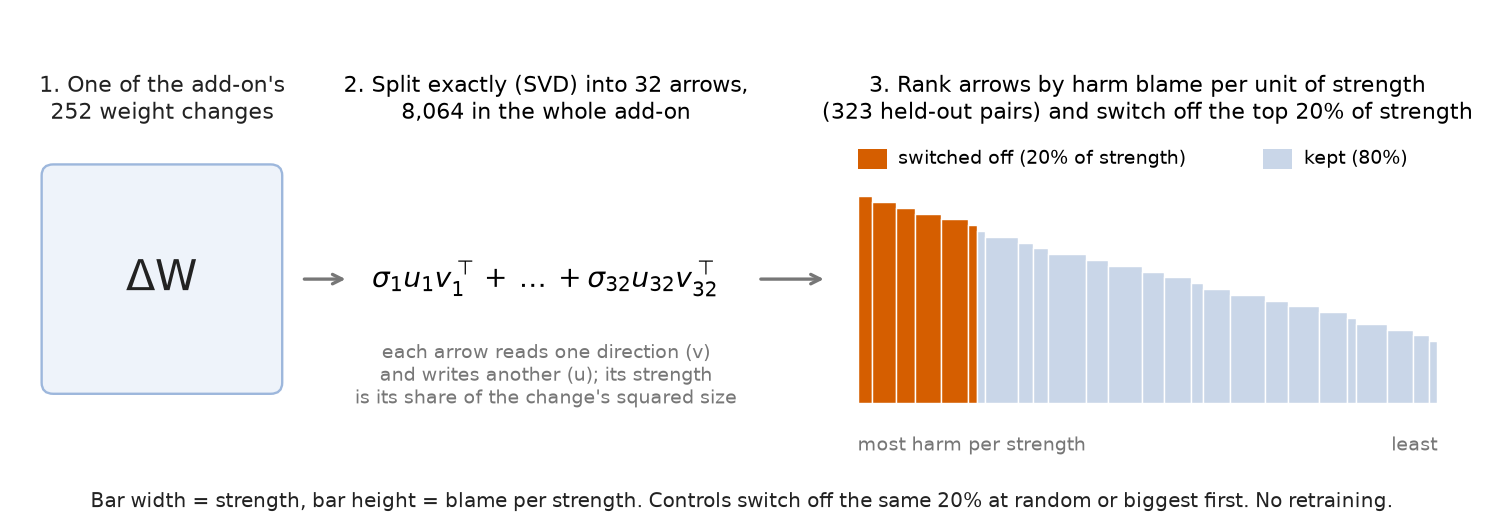
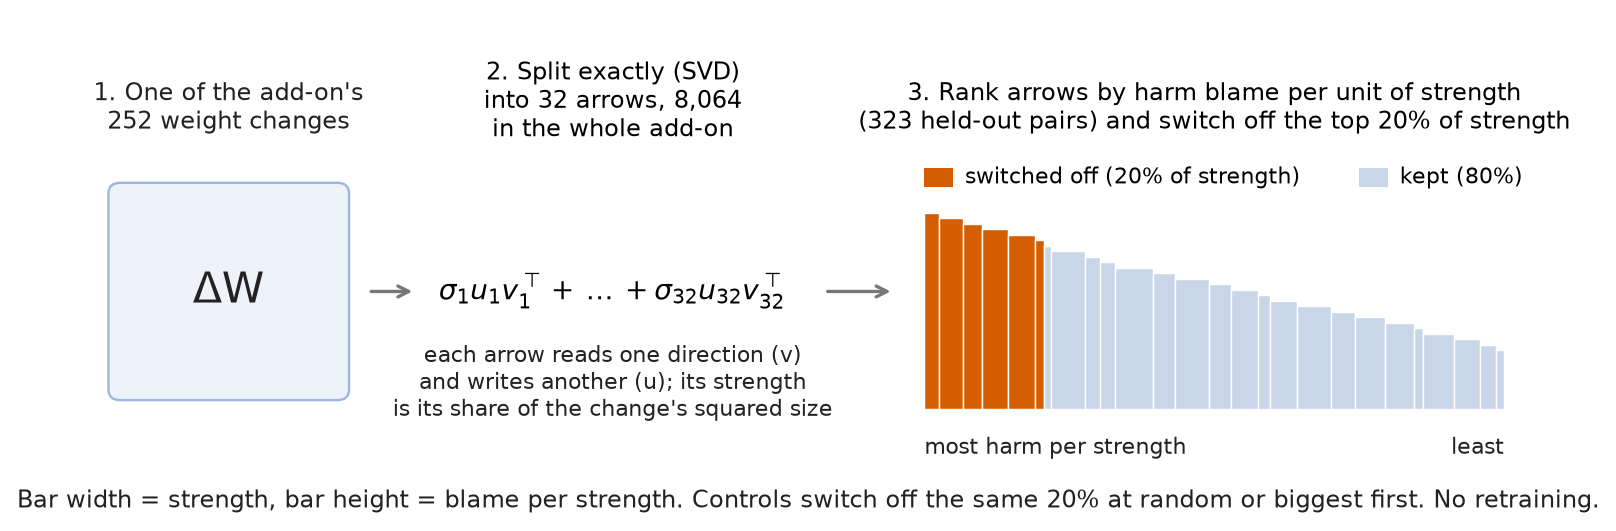
Figures: larger text, no tiny footnotes

diff --git a/figures/make_figures.py b/figures/make_figures.py
@@ -7,7 +7,7 @@ from matplotlib.patches import FancyBboxPatch, Rectangle
 OUT = sys.argv[1]
 os.makedirs(OUT, exist_ok=True)
 C = dict(t="#0072B2", r="#E69F00", b="#CC79A7", u="#D55E00", o="#6b6b6b", ink="#222222", mute="#777777", grid="#e6e6e6", ok="#009E73")
-plt.rcParams.update({"font.family": "DejaVu Sans", "font.size": 10, "axes.edgecolor": "#bbbbbb", "axes.labelcolor": C["ink"],
+plt.rcParams.update({"font.family": "DejaVu Sans", "font.size": 11.5, "axes.edgecolor": "#bbbbbb", "axes.labelcolor": C["ink"],
                      "xtick.color": C["ink"], "ytick.color": C["ink"], "figure.facecolor": "white", "axes.facecolor": "white",
                      "savefig.facecolor": "white", "axes.spines.top": False, "axes.spines.right": False})
 
@@ -17,23 +17,23 @@ def save(fig, name):
 
 # ---------- 1. The cut: arrows ----------
 fig, ax = plt.subplots(figsize=(11, 3.8))
-ax.set_xlim(0, 100); ax.set_ylim(0, 36); ax.axis("off")
+ax.set_xlim(0, 100); ax.set_ylim(0, 38); ax.axis("off")
 def box(x, y, w, h, fc, ec=None, lw=1):
     ax.add_patch(FancyBboxPatch((x, y), w, h, boxstyle="round,pad=0.3,rounding_size=0.8", fc=fc, ec=ec or fc, lw=lw))
 # step 1: one matrix change
 box(2, 9, 16, 16, "#eef3fa", "#9db7dc")
 ax.text(10, 17, "ΔW", ha="center", va="center", fontsize=18, color=C["ink"])
-ax.text(10, 30, "1. One of the add-on's\n252 weight changes", ha="center", va="center", fontsize=9.5, color=C["ink"])
+ax.text(10, 31, "1. One of the add-on's\n252 weight changes", ha="center", va="center", fontsize=10, color=C["ink"])
 ax.annotate("", xy=(23, 17), xytext=(19.5, 17), arrowprops=dict(arrowstyle="->", color=C["mute"], lw=1.4))
 # step 2: split into arrows
-ax.text(36.5, 30, "2. Split exactly (SVD) into 32 arrows,\n8,064 in the whole add-on", ha="center", va="center", fontsize=9.5)
+ax.text(36.5, 31.5, "2. Split exactly (SVD)\ninto 32 arrows, 8,064\nin the whole add-on", ha="center", va="center", fontsize=10)
 ax.text(36.5, 17, r"$\sigma_1 u_1 v_1^\top + \dots + \sigma_{32} u_{32} v_{32}^\top$", ha="center", va="center", fontsize=12)
 ax.text(36.5, 10, "each arrow reads one direction (v)\nand writes another (u); its strength\nis its share of the change's squared size",
-        ha="center", va="center", fontsize=8, color=C["mute"])
+        ha="center", va="center", fontsize=9.5, color=C["ink"])
 ax.annotate("", xy=(56, 17), xytext=(51, 17), arrowprops=dict(arrowstyle="->", color=C["mute"], lw=1.4))
 # step 3: rank by blame per strength, cut until 20%
-ax.text(78, 30, "3. Rank arrows by harm blame per unit of strength\n(323 held-out pairs) and switch off the top 20% of strength",
-        ha="center", va="center", fontsize=9.5)
+ax.text(78, 31, "3. Rank arrows by harm blame per unit of strength\n(323 held-out pairs) and switch off the top 20% of strength",
+        ha="center", va="center", fontsize=10)
 import random
 random.seed(3)
 ws = [random.uniform(0.4, 2.2) for _ in range(26)]
@@ -44,12 +44,12 @@ for i, w in enumerate(ws):
     h = 15 - i * 0.42
     ax.add_patch(Rectangle((x, 8), w * k, h, fc=C["u"] if cut else "#c9d6e8", ec="white", lw=0.6))
     x += w * k
-ax.text(58, 4.6, "most harm per strength", fontsize=8, color=C["mute"], ha="left")
-ax.text(98, 4.6, "least", fontsize=8, color=C["mute"], ha="right")
-ax.add_patch(Rectangle((58, 25), 2, 1.4, fc=C["u"])); ax.text(60.8, 25.7, "switched off (20% of strength)", fontsize=8, va="center")
-ax.add_patch(Rectangle((86, 25), 2, 1.4, fc="#c9d6e8")); ax.text(88.8, 25.7, "kept (80%)", fontsize=8, va="center")
+ax.text(58, 4.6, "most harm per strength", fontsize=9.5, color=C["ink"], ha="left")
+ax.text(98, 4.6, "least", fontsize=9.5, color=C["ink"], ha="right")
+ax.add_patch(Rectangle((58, 25), 2, 1.4, fc=C["u"])); ax.text(60.8, 25.7, "switched off (20% of strength)", fontsize=9.5, va="center")
+ax.add_patch(Rectangle((88, 25), 2, 1.4, fc="#c9d6e8")); ax.text(90.8, 25.7, "kept (80%)", fontsize=9.5, va="center")
 ax.text(50, 0.5, "Bar width = strength, bar height = blame per strength. Controls switch off the same 20% at random or biggest first. No retraining.",
-        ha="center", fontsize=8.5, color=C["ink"])
+        ha="center", fontsize=10, color=C["ink"])
 save(fig, "fig1_the_cut.png")
 
 # ---------- 2. Main results ----------
@@ -70,7 +70,7 @@ rows = [
     ("P12 · adaptive attacker", 159, 54, (110, 110), 88, 60),
     ("P12 · Hindi-only attack", 99, 53, (84, 84), None, 60),
 ]
-fig, ax = plt.subplots(figsize=(9.5, 7.2))
+fig, ax = plt.subplots(figsize=(9, 7.6))
 n = len(rows)
 for i, (lab, u, t, r, b, o) in enumerate(rows):
     y = n - 1 - i
@@ -86,7 +86,7 @@ for i, (lab, u, t, r, b, o) in enumerate(rows):
         ax.scatter(b, y, s=58, marker="D", color=C["b"], zorder=3, edgecolor="white", linewidth=1.5)
     ax.scatter(u, y, s=58, facecolor="white", edgecolor="#333333", zorder=3, linewidth=1.6)
     ax.scatter(t, y, s=80, color=C["t"], zorder=4, edgecolor="white", linewidth=1.5)
-    ax.text(min(t, o) - 3, y, str(t), ha="right", va="center", fontsize=8.5, color=C["t"], fontweight="bold")
+    ax.text(min(t, o) - 3, y, str(t), ha="right", va="center", fontsize=10, color=C["t"], fontweight="bold")
 for yy in (n - 3.5, n - 7.5, n - 11.5):
     ax.axhline(yy, color=C["grid"], lw=1)
 ax.set_yticks(range(n)); ax.set_yticklabels([r[0] for r in rows][::-1])
@@ -99,7 +99,7 @@ h = [Line2D([], [], marker="o", ls="", color=C["t"], ms=8, label="Targeted 20% c
      Line2D([], [], marker="D", ls="", color=C["b"], ms=6, label="Biggest first 20%"),
      Line2D([], [], marker="o", ls="", mfc="white", mec="#333333", ms=7, label="Uncut add-on"),
      Line2D([], [], color=C["o"], lw=1.6, label="Original Tiny Aya (same setup)")]
-ax.legend(handles=h, loc="upper center", bbox_to_anchor=(0.42, 1.09), ncol=3, frameon=False, fontsize=8.5)
+ax.legend(handles=h, loc="upper center", bbox_to_anchor=(0.38, 1.13), ncol=2, frameon=False, fontsize=10)
 save(fig, "fig2_main_results.png")
 
 # ---------- 3. Pre-registered rules ----------
@@ -120,13 +120,11 @@ for i, (lab, ours, ctrl, bar, ok) in enumerate(rules):
     ax.annotate("", xy=(ours, y), xytext=(ctrl, y), arrowprops=dict(arrowstyle="-|>", color=col, lw=2, shrinkA=5, shrinkB=6))
     ax.scatter(ctrl, y, s=46, color="#bbbbbb", zorder=3, edgecolor="white")
     ax.scatter(ours, y, s=60, color=col, zorder=4, edgecolor="white")
-    ax.text(196, y, ("PASS" if ok else "FAIL") + "  ·  " + bar, va="center", fontsize=8.5, color=col, fontweight="bold")
-ax.set_yticks(range(n)); ax.set_yticklabels([r[0] for r in rules][::-1], fontsize=9)
-ax.set_xlim(0, 190); ax.set_xlabel("Harmful answers out of 250  (grey dot = comparison arm, coloured dot = our arm)")
+    ax.text(196, y, ("PASS" if ok else "FAIL") + "  ·  " + bar, va="center", fontsize=10, color=col, fontweight="bold")
+ax.set_yticks(range(n)); ax.set_yticklabels([r[0] for r in rules][::-1], fontsize=10.5)
+ax.set_xlim(0, 190); ax.set_xlabel("Harmful answers out of 250 (grey = comparison arm, coloured = our arm)")
 ax.tick_params(axis="y", length=0); ax.spines["left"].set_visible(False)
 ax.grid(axis="x", color=C["grid"], lw=0.8); ax.set_axisbelow(True)
-ax.text(0, n - 0.35, "E3: labeller A. R2 to R4: labeller B on the public seed-0 add-on (broken = 125). Not drawn: R1, R5, nothing-broke and MedQA bars (all pass), E1 gate (fail).",
-        fontsize=7.8, color=C["mute"])
 save(fig, "fig3_preregistered.png")
 
 # ---------- 4. Vaccine ----------
@@ -135,13 +133,13 @@ steps = [0, 50, 200]
 ax.plot(steps, [40, 130, 154], "-o", color=C["t"], lw=2, label="Vaccinated, seed 1")
 ax.plot(steps, [35, 125, 164], "--o", color=C["t"], lw=2, alpha=0.75, label="Vaccinated, seed 2")
 ax.plot(steps, [67, 182, 150], "-o", color=C["u"], lw=2, label="Original Tiny Aya, no vaccine")
-ax.annotate("vaccine holds:\n130 / 125 vs 182", xy=(50, 128), xytext=(70, 70), fontsize=8.5, arrowprops=dict(arrowstyle="->", color=C["mute"]))
-ax.annotate("worn off by step 200\n(p = 0.73)", xy=(200, 156), xytext=(128, 105), fontsize=8.5, arrowprops=dict(arrowstyle="->", color=C["mute"]))
+ax.annotate("vaccine holds:\n130 / 125 vs 182", xy=(50, 128), xytext=(70, 70), fontsize=10, arrowprops=dict(arrowstyle="->", color=C["mute"]))
+ax.annotate("worn off by step 200\n(p = 0.73)", xy=(200, 156), xytext=(128, 105), fontsize=10, arrowprops=dict(arrowstyle="->", color=C["mute"]))
 ax.set_xticks(steps); ax.set_xlabel("Attack fine-tuning steps on harmful advice (gentle, lr 1e-5)")
 ax.set_ylabel("Harmful answers of 250"); ax.set_ylim(0, 200)
 ax.grid(axis="y", color=C["grid"]); ax.set_axisbelow(True)
-ax.legend(frameon=False, fontsize=8.5, loc="lower right")
-ax.set_title("14 Nov labelling pass (original model = 67)", fontsize=9, color=C["mute"], loc="left")
+ax.legend(frameon=False, fontsize=10, loc="lower right")
+ax.set_title("14 Nov labelling pass (original model = 67)", fontsize=10, color=C["ink"], loc="left")
 save(fig, "fig4_vaccine.png")
 
 # ---------- 5. Ablation: cut size ----------
@@ -152,13 +150,13 @@ ax.plot([20, 38, 57], [78.5, 57.9, 43.6], "-D", color=C["b"], lw=2, label="Bigge
 ax.plot([20, 38, 57], [85.7, 68.2, 50.4], "-s", color="#999999", lw=1.6, label="Random among 1,000 strongest (our first control)")
 ax.plot([20, 38, 57], [87.1, 73.9, 58.6], "-o", color=C["r"], lw=2, label="Truly random (mean of 20 draws)")
 ax.scatter([57], [25.6], marker="*", s=150, color=C["t"], zorder=5)
-ax.text(55, 21, "whole fingerprint\n(57%): 25.6", fontsize=8, ha="right", color=C["ink"])
+ax.text(55, 21, "whole fingerprint\n(57%): 25.6", fontsize=9.5, ha="right", color=C["ink"])
 ax.axvline(20, color=C["grid"], lw=6, zorder=0)
-ax.text(20.8, 96, "the cut we report", fontsize=8, color=C["mute"])
+ax.text(20.8, 95, "the cut we report", fontsize=9.5, color=C["ink"])
 ax.set_xlabel("Share of the add-on's strength removed (%)"); ax.set_ylabel("Harm score (0 = original, 100 = uncut)")
 ax.set_xlim(5, 62); ax.set_ylim(0, 100); ax.set_xticks([10, 20, 30, 38, 57])
 ax.grid(axis="y", color=C["grid"]); ax.set_axisbelow(True)
-ax.legend(frameon=False, fontsize=8, loc="lower left")
-ax.set_title("Problem 9, three public add-ons, mean of seeds 0 to 2", fontsize=9, color=C["mute"], loc="left")
+ax.legend(frameon=False, fontsize=9.5, loc="lower left")
+ax.set_title("Problem 9, three public add-ons, mean of seeds 0 to 2", fontsize=10, color=C["ink"], loc="left")
 save(fig, "fig5_ablation_cut_size.png")
 print("ok")

diff --git a/WRITEUP.md b/WRITEUP.md
@@ -181,7 +181,8 @@ Rules were written before the runs they judge. The pre-registration files are in
 ![Pre-registered rules: each arrow runs from the comparison arm to our arm; green passed, orange failed](figures/fig3_preregistered.png)
 
 *Each arrow runs from the comparison arm (grey) to our arm. Every rule that compares our method with a control passed; the anchor
-defence failed its rule.*
+defence failed its rule. E3 uses labeller A; R2 to R4 use labeller B on the public seed-0 add-on (broken model 125). Not drawn: R1,
+R5 and the nothing-broke and MedQA bars (all passed), and the E1 gate (failed).*
 
 ### Related work
 
